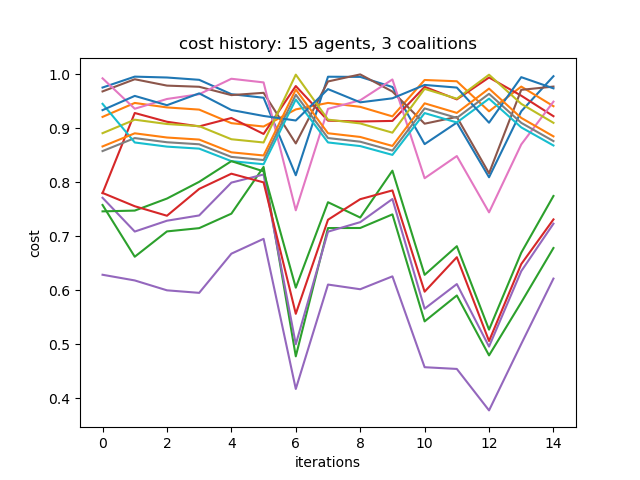
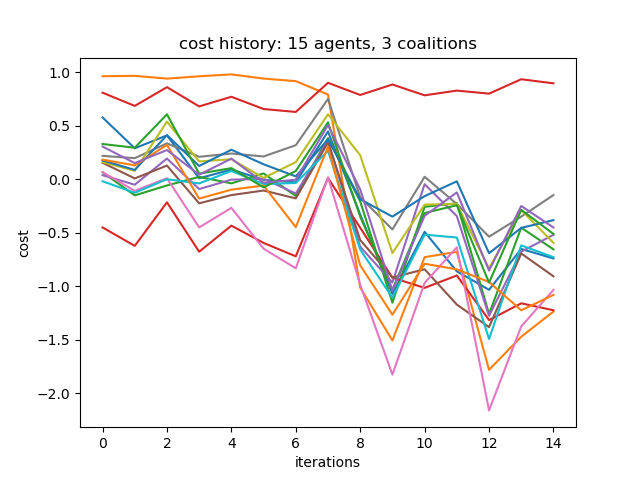
fix penalty

diff --git a/router-game.py b/router-game.py
@@ -15,6 +15,7 @@ class Coalition():
         self.current_throughput_pool = 0
         self.packets_history = []
         self.id = id
+        self.agentsCount = dict()
 
     def recalculate(self):
         self.current_throughput_pool = 0
@@ -30,6 +31,10 @@ class Coalition():
             raise ValueError(f"Agent {member.id} already in coalition")
         else:
             self.members.append(member)
+            if member.id in self.agentsCount:
+                self.agentsCount[member.id] += 1
+            else:
+                self.agentsCount[member.id] = 1
         self.recalculate()
 
 
@@ -92,13 +97,14 @@ class Node:
         processed = current_packets
         penalty = 0
         if self.current_coalition_ptr is not None:
-                penalty += BETA * len(self.current_coalition_ptr.members - 1)  
+                penalty += BETA * len(self.current_coalition_ptr.members) - 1
         if self.throughput < current_packets:
             dropped = current_packets - self.throughput
             processed = self.throughput
         return (processed - ALPHA*dropped)/self.throughput - penalty, dropped, processed
 
     def estimate_coalition_values(self, coalitions):
+        dropped_value, processed_val = 0.0, 0.0
         max_coalition_val, coalition_num = 0, 0
         for coalition in coalitions:
             coalition_packets = self.est_coalition_packets(coalition)
@@ -178,10 +184,13 @@ class Game:
 
         fig1, ax1 = plt.subplots()
         fig2, ax2 = plt.subplots()
+        # fig3, ax3 = plt.subplots()
         #fig1.figsize(100,100)
         for agent in self.agents:
             ax1.plot(agent.dropped_packets_history)
             ax2.plot(agent.cost_history)
+        # for coalition in self.coalitions:
+        #     ax3.plot(coalition.agentsCount)
         ax1.set_title(f'dropped packets: {len(self.agents)} agents, {self.coalition_num} coalitions')
         ax2.set_title(f'cost history: {len(self.agents)} agents, {self.coalition_num} coalitions')
         ax1.set_ylabel("dropped_packets")
